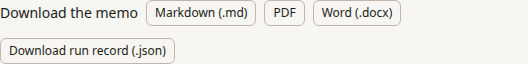
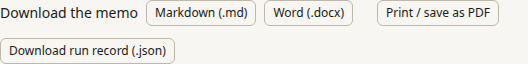
Guide: the retaken frame 06 (Print / save as PDF set apart from the memo group) with R1's exact alt and step 7 wording; size pinned

diff --git a/frontend/src/lib/guide/guide.spec.ts b/frontend/src/lib/guide/guide.spec.ts
@@ -62,6 +62,9 @@ test("the guide states each limit it was asked to: not legal advice, the citatio
   // frame 05 is shown only on the build with the panel (retaken on such a build); a build without it shows no image and no caption (R1: never the old hosted-build frame)
   assert.equal(step6.image, CITATIONS_PANEL_ENABLED ? GUIDE_IMAGES.citations : undefined);
   assert.equal(GUIDE_IMAGES.citations.file, "05-citations-panel.png");
+  // R1 (15 Oct): frame 06 as retaken by Track A at main f8738cf7 (528x64, sha256 0a019ee3...c9d2) and its exact alt
+  assert.equal(statSync(join(root, "public", "guide", "06-memo-export.png")).size, 8643);
+  assert.equal(GUIDE_IMAGES.memo.alt, "The memo export controls under the checklist: the label \u201cDownload the memo\u201d with the buttons Markdown (.md) and Word (.docx), then, set apart, the button Print / save as PDF; on the next line, the button Download run record (.json).");
   assert.equal(statSync(join(root, "public", "guide", "05-citations-panel.png")).size, 14178, "the retaken frame (Track A, 15 Oct, sha256 c54566d6…01b0)");
   assert.doesNotMatch(JSON.stringify([GUIDE_STEPS, GUIDE_LIMITS]), /dev stack only/i);
   assert.doesNotMatch(text, /frontier/i, "the frontier reader was removed in #129; the guide no longer describes it");
@@ -137,7 +140,7 @@ test("P16: R1's four-marks sentence, the No fact cited description, the banner d
   assert.ok(text.includes("Each ingredient shows one of four marks: Supported by a fact, Suggested by the screening judge; check it, Needs your review, or No fact cited."));
   assert.ok(GUIDE_STATUSES.some((s) => s.label === "No fact cited" && s.meaning === "No fact cited means the screening found no fact in your papers that supports this ingredient. It is a prompt to look for one, not a finding about your matter."));
   assert.ok(c.GUIDE_BANNER_TEXT.startsWith("On a result where no ingredient has a cited fact, a review agenda is shown first: what each ingredient needs, and which facts to look for. Nothing there is a finding about your matter."));
-  assert.ok(GUIDE_STEPS.find((x) => x.id === "export")!.text.startsWith("Under the checklist, the group Download the memo holds Markdown (.md) and Word (.docx); Print / save as PDF opens your browser's print window; Download run record (.json) is a separate button beside it. The memo carries the run, the versions and the standing line that this is a screening aid."));
+  assert.ok(GUIDE_STEPS.find((x) => x.id === "export")!.text.startsWith("Under the checklist, the group Download the memo holds Markdown (.md) and Word (.docx); Print / save as PDF opens your browser's print window; Download run record (.json) is a separate button. The memo carries the run, the versions and the standing line that this is a screening aid."));
   assert.ok(GUIDE_STEPS.find((x) => x.id === "export")!.text.endsWith("Both are built in your browser and are saved to your device when you download them, so keep them as you would the matter file."));
   assert.doesNotMatch(c.GUIDE_BANNER_TEXT + text, /\b\d+ of \d+\b|0 of 3/);
 });

diff --git a/frontend/src/lib/guide/copy.ts b/frontend/src/lib/guide/copy.ts
@@ -60,7 +60,8 @@ export const GUIDE_IMAGES: Record<"input" | "checklist" | "citedFact" | "needsRe
   },
   memo: {
     file: "06-memo-export.png",
-    alt: `The memo export group under the checklist, labelled "${EXPORT_GROUP_LABEL}", with ${EXPORT_LABELS.memo} and ${MEMO_DOCX_LABEL}, and the ${EXPORT_LABELS.print} and ${EXPORT_LABELS.runRecord} buttons beside it.`,
+    // R1 (15 Oct), exact: width-independent (no "beside"/"below"); the frame shows the label, the two download buttons, then set apart the print button, and the run-record button on the next line.
+    alt: "The memo export controls under the checklist: the label \u201cDownload the memo\u201d with the buttons Markdown (.md) and Word (.docx), then, set apart, the button Print / save as PDF; on the next line, the button Download run record (.json).",
   },
 };
 
@@ -138,7 +139,7 @@ export const GUIDE_STEPS: GuideStep[] = [
   {
     id: "export",
     heading: "7. Export the memo",
-    text: "Under the checklist, the group Download the memo holds Markdown (.md) and Word (.docx); Print / save as PDF opens your browser's print window; Download run record (.json) is a separate button beside it. The memo carries the run, the versions and the standing line that this is a screening aid. The run record is a JSON file that includes the facts you entered, the full result that came back, the engine version and the checker version. Both are built in your browser and are saved to your device when you download them, so keep them as you would the matter file.",
+    text: "Under the checklist, the group Download the memo holds Markdown (.md) and Word (.docx); Print / save as PDF opens your browser's print window; Download run record (.json) is a separate button. The memo carries the run, the versions and the standing line that this is a screening aid. The run record is a JSON file that includes the facts you entered, the full result that came back, the engine version and the checker version. Both are built in your browser and are saved to your device when you download them, so keep them as you would the matter file.",
     image: GUIDE_IMAGES.memo,
   },
 ];
